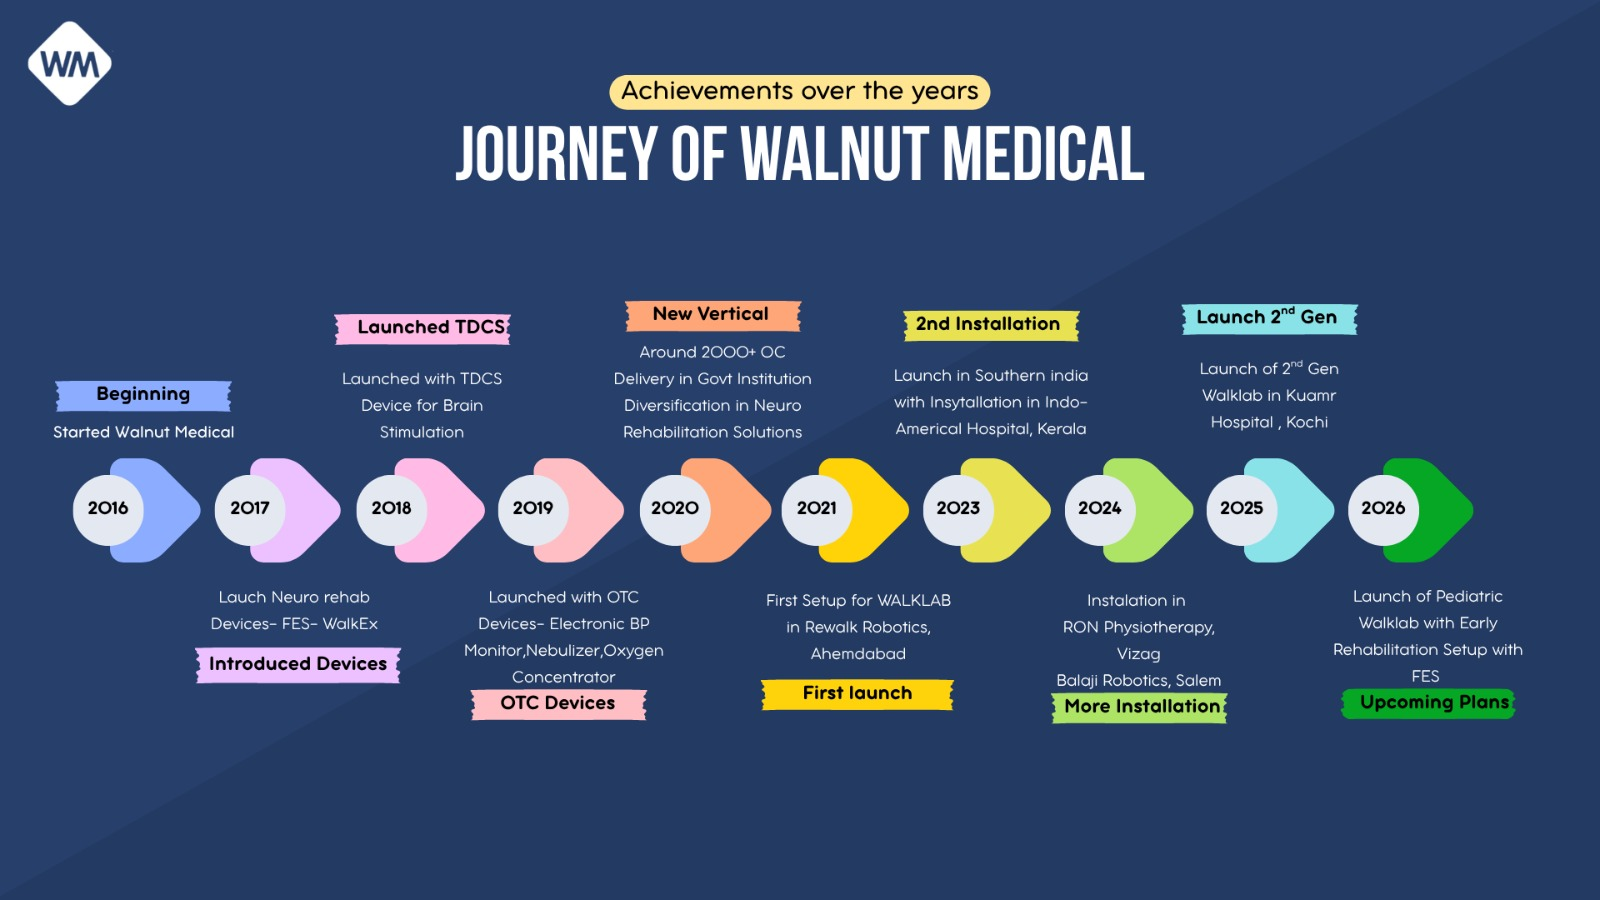
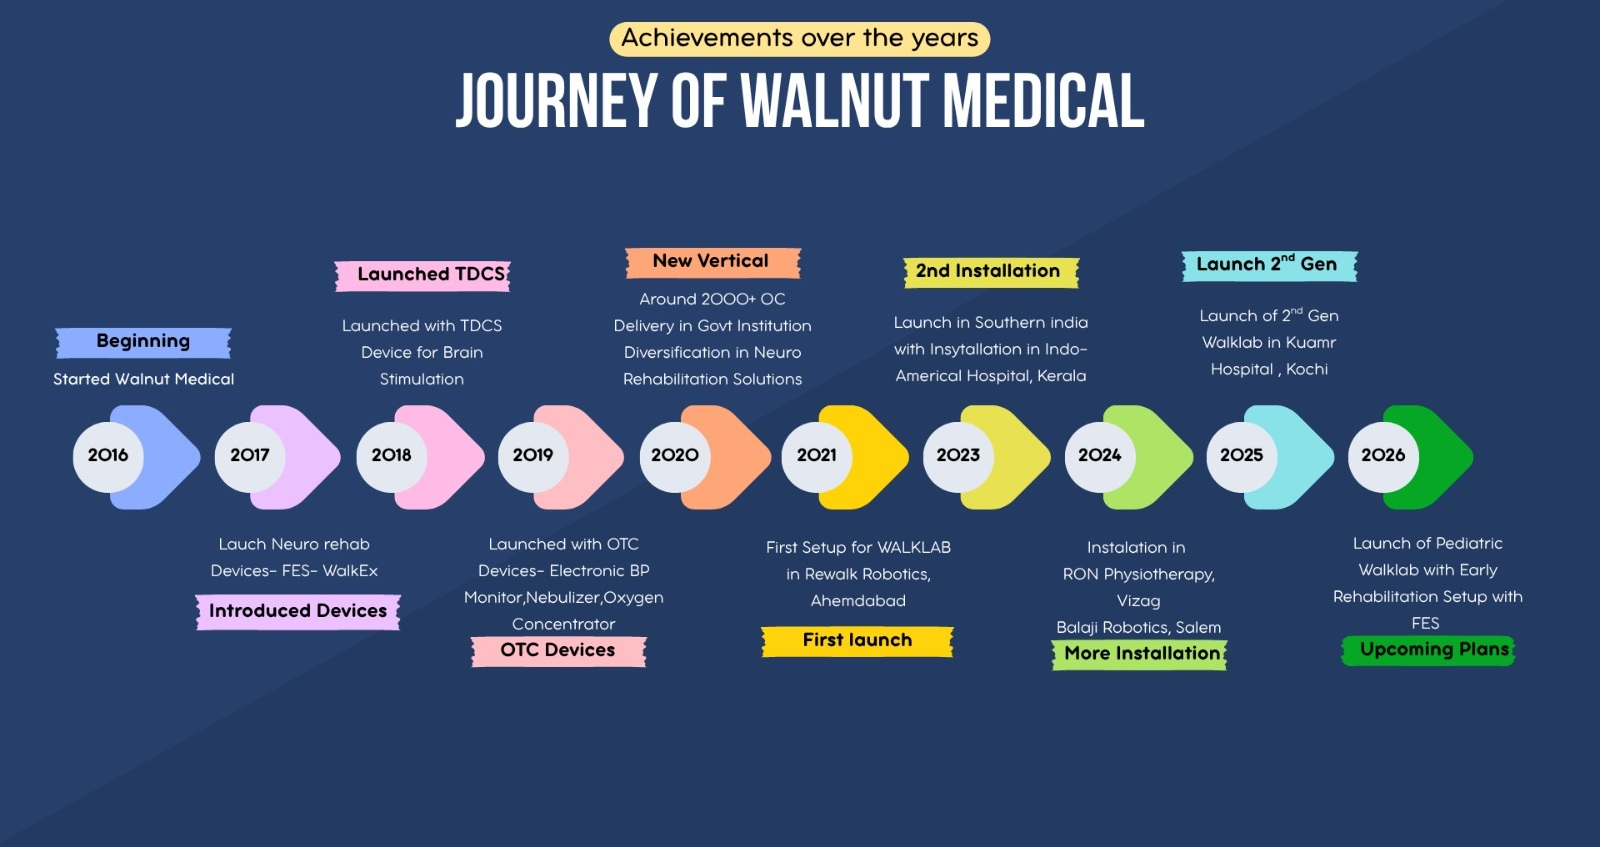
fix: remove max-height constraint on journey image

Changed region(s): [[0.0312, 0.2763, 0.9688, 0.8288], [0.2812, 0.0, 0.7188, 0.2149], [0.0, 0.0307, 0.0938, 0.1228]]

diff --git a/src/pages/HomePage.jsx b/src/pages/HomePage.jsx
@@ -179,7 +179,7 @@ function JourneySection() {
             initial={{ opacity: 0, y: 20 }}
             animate={isInView ? { opacity: 1, y: 0 } : {}}
             transition={{ duration: 0.6, delay: 0.5 }}
-            className="rounded-lg overflow-hidden max-h-[450px] md:max-h-[650px]"
+            className="rounded-lg overflow-hidden"
           >
             <img src="/journey.jpeg" alt="Our Journey" className="w-full h-full object-cover" />
           </motion.div>
